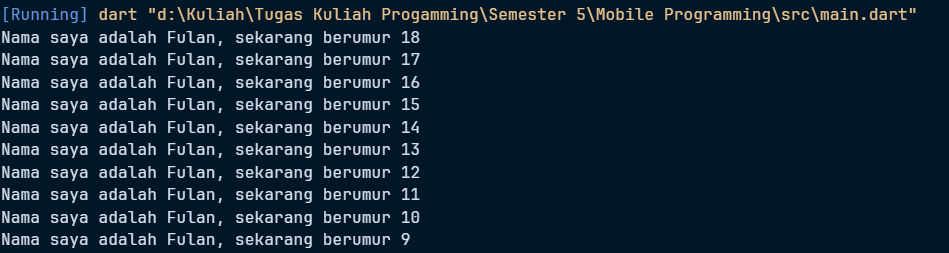
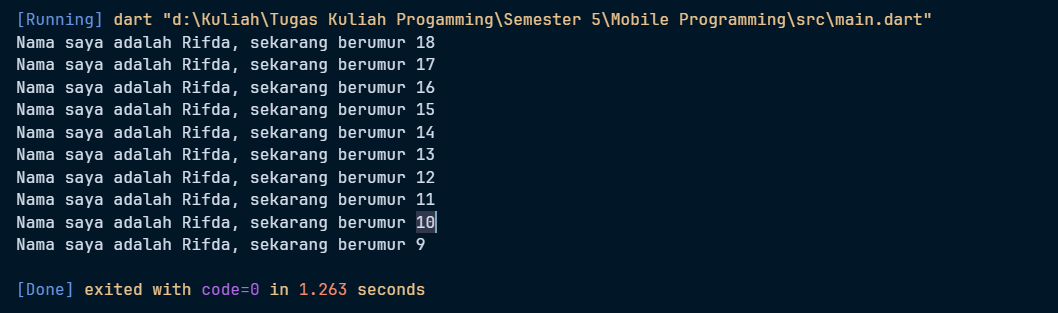
Fix: Main.dart

Changed region(s): [[0.0, 0.0277, 0.9779, 0.4427], [0.0, 0.4704, 0.4584, 0.8024], [0.0, 0.83, 0.4584, 0.9684]]

diff --git a/src/main.dart b/src/main.dart
@@ -17,7 +17,7 @@ void main() {
   Nama saya adalah Fulan, sekarang berumur 9 
   */
 
-  for (int i = 20; i > 10; i--) {
-    print('Nama saya adalah Fulan, sekarang berumur ${i - 2}');
+  for (int i = 0; i < 10; i++) {
+    print('Nama saya adalah Rifda, sekarang berumur ${18 - i}');
   }
 }
